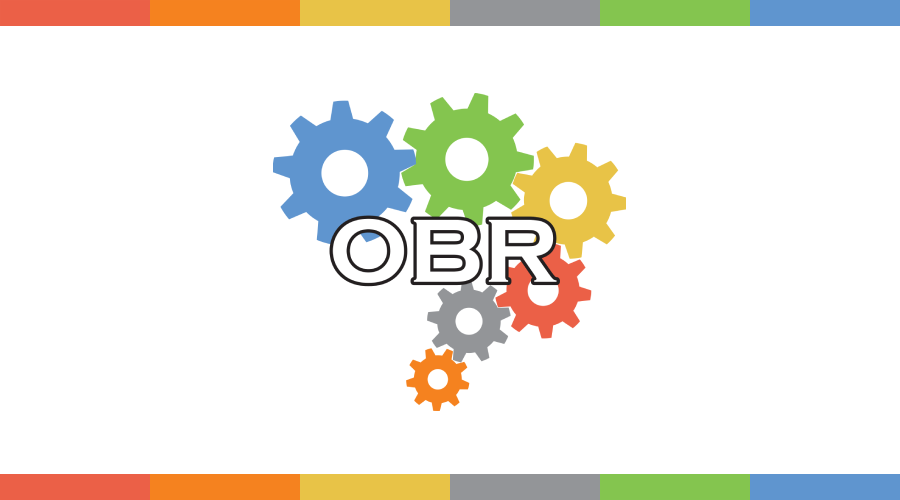
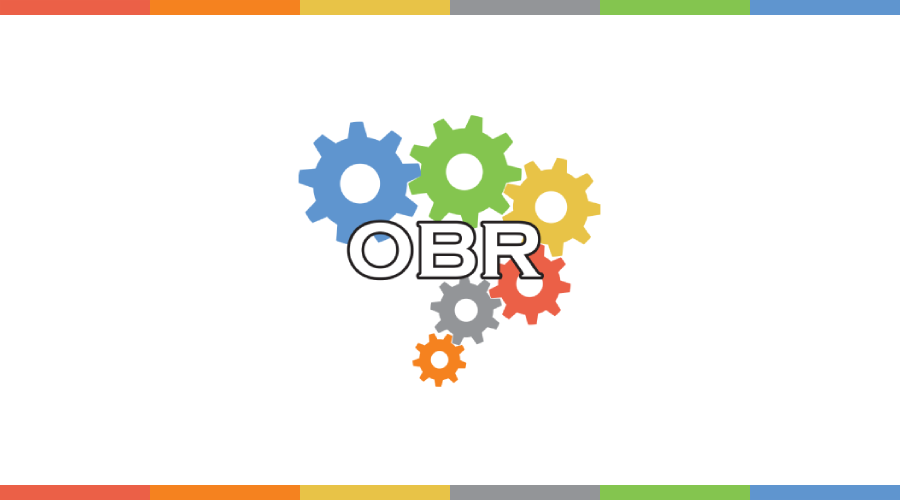
Title spacing and OBR image fix

Changed region(s): [[0.28, 0.18, 0.7156, 0.84], [0.0, 0.93, 1.0, 0.99], [0.0, 0.03, 1.0, 0.06]]

diff --git a/me.html b/me.html
@@ -36,7 +36,7 @@
   @media(max-width:768px){.hero-inner{max-width:none;padding:0 1rem;bottom:2rem}}
   .hero-kicker{font-size:.62rem;letter-spacing:.3em;text-transform:uppercase;color:var(--dim);margin-bottom:1.2rem}
   .hero-name{font-family:'Myoungjo',serif;font-weight:700;font-size:clamp(2.8rem,7vw,5rem);line-height:.98;margin:0 0 1.3rem;color:var(--fg)}
-  .hero-lead{font-family:'Myoungjo',serif;font-size:clamp(1.05rem,2.1vw,1.5rem);line-height:1.5;color:var(--fg);opacity:.85;max-width:24ch;margin:0}
+  .hero-lead{font-family:'Myoungjo',serif;font-size:clamp(1.05rem,2.1vw,1.5rem);line-height:1.5;color:var(--fg);opacity:.85;max-width:25ch;margin:0}
   .hero-scroll{margin-top:2.2rem;font-size:.58rem;letter-spacing:.26em;text-transform:uppercase;color:var(--dim);animation:bob 2.4s ease-in-out infinite}
   @keyframes bob{50%{transform:translateY(6px)}}
 

diff --git a/index.html b/index.html
@@ -235,12 +235,12 @@ body::before { display:none; }
 </div>
 
 <div class="intro" id="intro">
-  <p class="intro-quote">In the age of gen AI,<br>I'm seeking to combine it with<br>"human creativity".</p>
+  <p class="intro-quote">In the age of gen AI,<br>My plan is to combine it<br>with "human creativity".</p>
   <h1 class="intro-name"><a href="me">Hi, I'm Lucas</a></h1>
   <p class="intro-roles"><a href="map">Adventurer, Traveller</a>;<br>
     <a href="me">Software Engineering,<br>
     Education Technology, and HCI Research</a>;<br>
-    But above all, a <a href="blog">&ldquo;Thinking Engineer&rdquo;</a>.</p>
+    But above all, a <a href="blog">&ldquo;Contemplative Engineer&rdquo;</a>.</p>
   <p class="intro-actions"><span class="intro-readmore"><a href="me">Read More</a> &nbsp;|&nbsp; </span><a href="#" id="hide-intro">Hide intro</a></p>
 </div>
 
